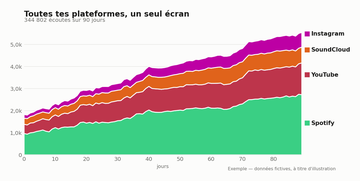
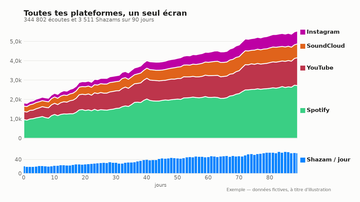
R438 : assistant — Shazam dans « streaMLytics en bref » (bande à part, pas dans la pile des écoutes) ; promesse « Prédire le déclenchement des playlists algorithmiques Spotify : … » (FR + EN) ; figure campagne sur UN graphique — écoutes, visites et clics Hypeddit, € Meta en barres sur un axe de droi

diff --git a/tools/dev/make_example_charts.py b/tools/dev/make_example_charts.py
@@ -31,9 +31,9 @@ Design rules applied (from the `dataviz` skill, validated not eyeballed)
   `validate_palette.js` on the light surface: all checks PASS, worst adjacent CVD
   ΔE 9.1, normal-vision ΔE 22.9. The contrast WARN on aqua/yellow obliges the
   **relief rule** — hence a visible direct label on every series, always;
-* **never a dual axis**: spend and streams are two stacked panels sharing one x, not
-  two y-scales on one plot. That is the single most common chart mistake and the one
-  this pair invites;
+* **one dual axis at most, and only in `meta_x_s4a`** (R438, 2026-10-07): counts on
+  the left, euros on the right, both from zero. It was two stacked panels until the
+  owner read them as incomprehensible;
 * text wears text tokens (ink), never the series colour; grid recessive; thin marks;
   2 px surface gap between stacked fills.
 """
@@ -62,6 +62,9 @@ GRID = "#e6e6e3"
 # orange, Apple magenta). Les noms restent positionnels — c'est la 1ʳᵉ, la 2ᵉ,
 # la 3ᵉ et la 4ᵉ série — parce que ce fichier ne connaît pas les plateformes.
 BLUE, ORANGE, AQUA, YELLOW = "#3acf84", "#bd354b", "#e0631b", "#bd00a4"
+# Shazam et Hypeddit : hors de la pile des quatre plateformes, donc hors de ses
+# quatre teintes — un bleu et un violet que rien d'autre ne porte sur ces figures.
+SHAZAM, HYPEDDIT = "#0a84ff", "#6b4fd8"
 
 plt.rcParams.update({
     "figure.facecolor": SURFACE, "axes.facecolor": SURFACE,
@@ -172,7 +175,16 @@ def dashboard_global() -> Path:
     series = {k: np.clip(v, 40, None) for k, v in base.items()}
     colours = [BLUE, ORANGE, AQUA, YELLOW]
 
-    fig, ax = plt.subplots(figsize=(9, 4.2))
+    # Shazam (R437/R438, 2026-10-07 : « intègre-moi uniquement le nombre de
+    # Shazam »). Pas une 5ᵉ bande de la pile : un Shazam n'est pas une écoute, et
+    # l'empiler gonflerait le total « écoutes » qui titre la figure. À l'échelle
+    # des écoutes (~8 000/j) une courbe de ~40/j serait un trait plat : il a donc
+    # sa propre bande, fine, sous la pile, sur le MÊME axe du temps.
+    shazam = np.clip(18 + days * 0.42 + rng.normal(0, 4, 90).cumsum() * 0.35, 4, None)
+
+    fig, (ax, axs) = plt.subplots(
+        2, 1, figsize=(9, 4.9), sharex=True,
+        gridspec_kw={"height_ratios": [4.2, 1], "hspace": 0.12})
     ax.stackplot(days, *series.values(), colors=colours,
                  # 2 px surface gap between stacked fills — the segments must not
                  # touch, or two adjacent hues read as one shape.
@@ -191,10 +203,18 @@ def dashboard_global() -> Path:
     total = int(sum(s.sum() for s in series.values()))
     ax.set_title("Toutes tes plateformes, un seul écran", fontsize=14,
                  fontweight="700", color=INK, loc="left", pad=18)
-    ax.text(0, 1.035, f"{total:,}".replace(",", " ") + " écoutes sur 90 jours",
+    n_shazam = int(shazam.sum())
+    ax.text(0, 1.035, f"{total:,}".replace(",", " ") + " écoutes et "
+            + f"{n_shazam:,}".replace(",", " ") + " Shazams sur 90 jours",
             transform=ax.transAxes, fontsize=10, color=INK_MUTED)
-    ax.set_xlabel("jours", fontsize=9)
     ax.set_xlim(0, days[-1])
+
+    axs.bar(days, shazam, color=SHAZAM, width=0.8)
+    _frame(axs)
+    axs.set_ylim(0, shazam.max() * 1.25)
+    axs.yaxis.set_major_locator(plt.MaxNLocator(2))
+    _series_tag(axs, 1.02, 0.5, "Shazam / jour", SHAZAM)
+    axs.set_xlabel("jours", fontsize=9)
     _example_badge(fig)
     return _save(fig, "dashboard-global.png")
 
@@ -237,12 +257,14 @@ def discover_weekly_prediction() -> Path:
 
 
 def meta_x_s4a() -> Path:
-    """Dépense et écoutes — DEUX panneaux, un axe chacun. Jamais deux échelles.
+    """Dépense Meta, visites et clics Hypeddit, CPR et écoutes — UN graphique.
 
-    C'est l'erreur que cette paire de mesures appelle : un axe à gauche pour les
-    euros, un à droite pour les écoutes, et une corrélation qu'on croit lire parce
-    que les deux courbes se croisent là où l'échelle a été choisie. Deux panneaux qui
-    partagent l'axe du temps disent la même chose sans mentir.
+    Deux panneaux jusqu'au 2026-10-07, pour ne jamais poser deux échelles sur un
+    même tracé. Le propriétaire les a lus comme « incompréhensibles » (R438) : la
+    figure passe sur un seul graphique, avec UN axe secondaire en euros, et le
+    risque que la règle visait est tenu autrement — les deux axes partent de zéro,
+    la dépense est en barres pâles derrière, et l'axe € est nommé. Même arbitrage
+    que la figure live de R436.
     """
     rng = np.random.default_rng(7)
     days = np.arange(45)
@@ -281,62 +303,77 @@ def meta_x_s4a() -> Path:
     reach = (future - days[-1]) / horizon
     forecast = streams[-1] + (trigger_level * 1.04 - streams[-1]) * reach ** 0.8
 
-    fig, (ax1, ax2) = plt.subplots(
-        2, 1, figsize=(9, 3.85), sharex=True,
-        gridspec_kw={"height_ratios": [1, 1.5], "hspace": 0.28})
+    # Hypeddit : la page de pré-sauvegarde que la pub vise. Visites, puis clics
+    # (pré-saves) — ce que l'euro achète AVANT de devenir une écoute.
+    camp = (days >= 8) & (days < 26)
+    visits = np.where(camp, spend * 6.2 + rng.normal(0, 10, 45), 8 + rng.normal(0, 2, 45))
+    visits = np.clip(visits, 0, None)
+    clicks = np.clip(visits * 0.42 + rng.normal(0, 3, 45), 0, None)
+    cpr = spend[camp].sum() / clicks[camp].sum()
 
-    ax1.bar(days, spend, color=ORANGE, width=0.75)
-    _frame(ax1)
-    ax1.set_ylabel("€ dépensés / jour", fontsize=9)
-    # Étiquettes DANS le panneau : hors-cadre, `bbox_inches="tight"` élargissait
-    # l'image d'une bande vide où les deux noms flottaient loin de leur courbe.
-    _series_tag(ax1, 0.86, 0.88, "Meta Ads", ORANGE)
+    # UN SEUL graphique (R438, 2026-10-07 : « tout me mettre sur un seul
+    # graphique, parce que là il y en a deux, c'est un peu incompréhensible »).
+    # Deux unités seulement : des COMPTES par jour à gauche (écoutes, visites,
+    # clics), des EUROS à droite (la dépense, en barres pâles DERRIÈRE). Les deux
+    # axes partent de ZÉRO — le seul réglage qui empêche d'inventer une corrélation
+    # en choisissant où épingler une échelle. Le CPR est un RATIO : il est ÉCRIT,
+    # pas tracé, comme la probabilité.
+    fig, ax = plt.subplots(figsize=(9, 4.4))
+    axe = ax.twinx()
+    ax.set_zorder(axe.get_zorder() + 1)
+    ax.patch.set_visible(False)
 
-    ax2.plot(days, streams, color=BLUE, linewidth=2)
+    axe.bar(days, spend, color=ORANGE, width=0.75, alpha=0.28, linewidth=0)
+    axe.set_ylim(0, spend.max() * 2.6)
+    axe.set_ylabel("€ Meta / jour", fontsize=9, color=INK_MUTED)
+    for side in ("top", "left", "bottom"):
+        axe.spines[side].set_visible(False)
+    axe.spines["right"].set_visible(False)
+    axe.tick_params(length=0, labelsize=8.5, colors=INK_MUTED)
+    axe.grid(False)
 
-    # La projection : même couleur (c'est la même grandeur), mais pointillée et plus
-    # fine — « la suite probable », pas « ce qui s'est passé ».
-    ax2.plot(future, forecast, color=BLUE, linewidth=1.6, linestyle=(0, (3, 3)))
-    ax2.fill_between(future, forecast * 0.86, forecast * 1.14,
-                     color=BLUE, alpha=0.10, linewidth=0)
+    ax.plot(days, streams, color=BLUE, linewidth=2.2)
+    ax.plot(future, forecast, color=BLUE, linewidth=1.6, linestyle=(0, (3, 3)))
+    ax.fill_between(future, forecast * 0.86, forecast * 1.14,
+                    color=BLUE, alpha=0.10, linewidth=0)
+    ax.plot(days, visits, color=HYPEDDIT, linewidth=1.6)
+    ax.plot(days, clicks, color=HYPEDDIT, linewidth=1.4, linestyle=(0, (1, 1.6)))
 
-    # Le seuil de déclenchement, en encre : c'est un repère, pas une série.
-    ax2.axhline(trigger_level, color=INK_MUTED, linewidth=1, linestyle=(0, (5, 4)))
-    # À GAUCHE, au-dessus du trait : la droite du panneau est là où la projection
-    # vient croiser le seuil, donc le seul endroit où le libellé recouvre ce qu'il
-    # commente.
-    ax2.text(0.015, trigger_level, "seuil de déclenchement Discover Weekly",
-             transform=ax2.get_yaxis_transform(), fontsize=9, color=INK_MUTED,
-             va="bottom", ha="left")
+    ax.axhline(trigger_level, color=INK_MUTED, linewidth=1, linestyle=(0, (5, 4)))
+    ax.text(0.015, trigger_level, "seuil de déclenchement Discover Weekly",
+            transform=ax.get_yaxis_transform(), fontsize=9, color=INK_MUTED,
+            va="bottom", ha="left")
+    _frame(ax)
+    ax.set_ylim(0, trigger_level * 1.32)
+    ax.set_ylabel("par jour", fontsize=9)
+    ax.set_xlabel("jours", fontsize=9)
+    ax.set_xlim(0, future[-1])
+    axe.set_xlim(0, future[-1])
+    ax.axvline(days[-1], color=GRID, linewidth=1)
 
-    _frame(ax2)
-    ax2.set_ylabel("écoutes / jour", fontsize=9)
-    ax2.set_xlabel("jours", fontsize=9)
-    _series_tag(ax2, 0.02, 0.34, "Spotify", BLUE)
+    # Étiquettes directes, au bout de chaque série, plutôt qu'une légende.
+    _series_tag(ax, 0.02, 0.50, "Spotify (écoutes)", BLUE)
+    # Les trois séries de la campagne : nommées dans le creux d'APRÈS la campagne,
+    # le seul endroit du tracé où rien ne passe.
+    _series_tag(ax, 0.47, 0.25, "Meta Ads (€, axe de droite)", ORANGE)
+    _series_tag(ax, 0.47, 0.165, "Hypeddit — visites", HYPEDDIT)
+    _series_tag(ax, 0.47, 0.08, "Hypeddit — clics (pointillés)", HYPEDDIT)
 
-    # La probabilité, ÉCRITE. Elle porte son horizon : « 78 % » sans « d'ici 14
-    # jours » n'est une probabilité de rien.
-    ax2.annotate("78 % de chances\nde déclencher\nd'ici 14 jours",
-                 xy=(future[-3], forecast[-3]),
-                 xytext=(days[-1] - 17, trigger_level * 0.34),
-                 fontsize=10, color=INK, fontweight="600", ha="left",
-                 arrowprops=dict(arrowstyle="-", color=INK_MUTED, linewidth=1),
-                 annotation_clip=False)
+    ax.text(17, trigger_level * 1.2,
+            f"CPR {cpr:.2f} € par clic".replace(".", ","),
+            fontsize=10, color=INK, fontweight="600", ha="center")
+    ax.annotate("78 % de chances\nde déclencher\nd'ici 14 jours",
+                xy=(future[-3], forecast[-3]),
+                xytext=(days[-1] - 13, trigger_level * 0.5),
+                fontsize=10, color=INK, fontweight="600", ha="left",
+                arrowprops=dict(arrowstyle="-", color=INK_MUTED, linewidth=1),
+                annotation_clip=False)
 
-    ax1.axvspan(8, 26, color=ORANGE, alpha=0.07, linewidth=0)
-    ax2.axvspan(8, 26, color=ORANGE, alpha=0.07, linewidth=0)
-    # Le panneau du bas va plus loin que celui du haut : la dépense est finie, la
-    # projection continue. Les deux gardent le même ZÉRO, donc le même axe du temps.
-    ax1.set_xlim(0, future[-1])
-    ax2.set_xlim(0, future[-1])
-    # La frontière mesuré / projeté, une fois, sur le panneau qui la porte.
-    ax2.axvline(days[-1], color=GRID, linewidth=1)
-
-    ax1.set_title("Quel euro de pub a produit quelles écoutes",
-                  fontsize=14, fontweight="700", color=INK, loc="left", pad=40)
-    ax1.text(0, 1.09,
-             "La campagne est la zone teintée ; à droite du trait, la projection",
-             transform=ax1.transAxes, fontsize=10, color=INK_MUTED, va="bottom")
+    ax.set_title("Quel euro de pub a produit quelles écoutes",
+                 fontsize=14, fontweight="700", color=INK, loc="left", pad=26)
+    ax.text(0, 1.035,
+            "Barres : la dépense Meta · à droite du trait, la projection",
+            transform=ax.transAxes, fontsize=10, color=INK_MUTED)
     _example_badge(fig)
     return _save(fig, "meta-x-s4a.png")
 

diff --git a/tests/test_the_setup_page_is_reachable_and_on_top.py b/tests/test_the_setup_page_is_reachable_and_on_top.py
@@ -1108,13 +1108,31 @@ def test_the_charts_never_use_a_second_y_axis():
     Spend and streams have different scales: one axis each, in two stacked panels
     sharing the x. A `twinx()` here would let anyone read a correlation that is an
     artefact of where the two scales were pinned.
+
+    R438 (2026-10-07): the owner read the two panels as incomprehensible and asked
+    for ONE graph. One exception, scoped: `meta_x_s4a` may carry one euro axis, and
+    BOTH its axes must start at zero — the setting that stops a scale from being
+    pinned where it manufactures a correlation.
     """
     body = CHARTS.read_text(encoding="utf-8")
     tree = ast.parse(body)
-    twins = [n.lineno for n in ast.walk(tree)
-             if isinstance(n, ast.Call) and isinstance(n.func, ast.Attribute)
-             and n.func.attr in {"twinx", "twiny"}]
-    assert not twins, f"a dual-axis chart appeared at line(s) {twins}"
+    for fn in (n for n in ast.walk(tree) if isinstance(n, ast.FunctionDef)):
+        twins = [n.lineno for n in ast.walk(fn)
+                 if isinstance(n, ast.Call) and isinstance(n.func, ast.Attribute)
+                 and n.func.attr in {"twinx", "twiny"}]
+        if fn.name != "meta_x_s4a":
+            assert not twins, f"{fn.name}(): a dual-axis chart at line(s) {twins}"
+            continue
+        assert len(twins) <= 1, f"meta_x_s4a(): more than one extra axis {twins}"
+        if not twins:
+            continue
+        zero_based = {n.func.value.id for n in ast.walk(fn)
+                      if isinstance(n, ast.Call) and isinstance(n.func, ast.Attribute)
+                      and n.func.attr == "set_ylim" and isinstance(n.func.value, ast.Name)
+                      and n.args and isinstance(n.args[0], ast.Constant)
+                      and n.args[0].value == 0}
+        assert {"ax", "axe"} <= zero_based, (
+            f"meta_x_s4a(): both y axes must start at 0, found {sorted(zero_based)}")
 
 
 def test_the_welcome_mail_embeds_its_image_and_reads_without_it():
@@ -1194,3 +1212,12 @@ def test_the_sandbox_reset_actually_sends_the_verification_mail():
     assert "n'est PAS parti" in body, (
         "a failed send is not reported — the operator would wait for a mail that "
         "never left, which is exactly what happened")
+
+
+def test_the_algo_promise_names_the_algorithmic_playlists():
+    """R438, 2026-10-07 : « prédire le déclenchement des playlists algorithmiques
+    Spotify : Discover Weekly, Release Radar et Radio » — dans les deux langues."""
+    from src.dashboard.utils.i18n_catalog.onboarding import EN
+    view = code_of(REPO / "src" / "dashboard" / "views" / "onboarding.py")
+    assert "déclenchement des playlists algorithmiques Spotify" in view
+    assert "algorithmic playlists" in EN["onboarding.promise_algo"]

diff --git a/src/dashboard/utils/i18n_catalog/onboarding.py b/src/dashboard/utils/i18n_catalog/onboarding.py
@@ -34,7 +34,7 @@ EN = {
     "onboarding.b1_title": "1. streaMLytics in brief",
     "onboarding.brief_1": "**All your data in one place, pulled every day, "
                           "automatically.**",
-    "onboarding.promise_algo": "**Predict Discover Weekly, Release Radar and Radio**",
+    "onboarding.promise_algo": "**Predict when Spotify's algorithmic playlists trigger: Discover Weekly, Release Radar and Radio**",
     "onboarding.promise_campaign": "**See which ad euro produced which streams**",
     "onboarding.step1": "1. Welcome & pick",
     "onboarding.step2": "2. Where you stand",

diff --git a/src/dashboard/views/onboarding.py b/src/dashboard/views/onboarding.py
@@ -176,7 +176,7 @@ def _step_welcome(plan: str, artist_id: int, db) -> None:
               "**Toutes tes données au même endroit, récupérées chaque jour, "
               "automatiquement.**"),
             t("onboarding.promise_algo",
-              "**Prédire Discover Weekly, Release Radar et Radio**"),
+              "**Prédire le déclenchement des playlists algorithmiques Spotify : Discover Weekly, Release Radar et Radio**"),
             t("onboarding.promise_campaign",
               "**Savoir quel euro de pub a produit quelles écoutes**"))):
         with col:
